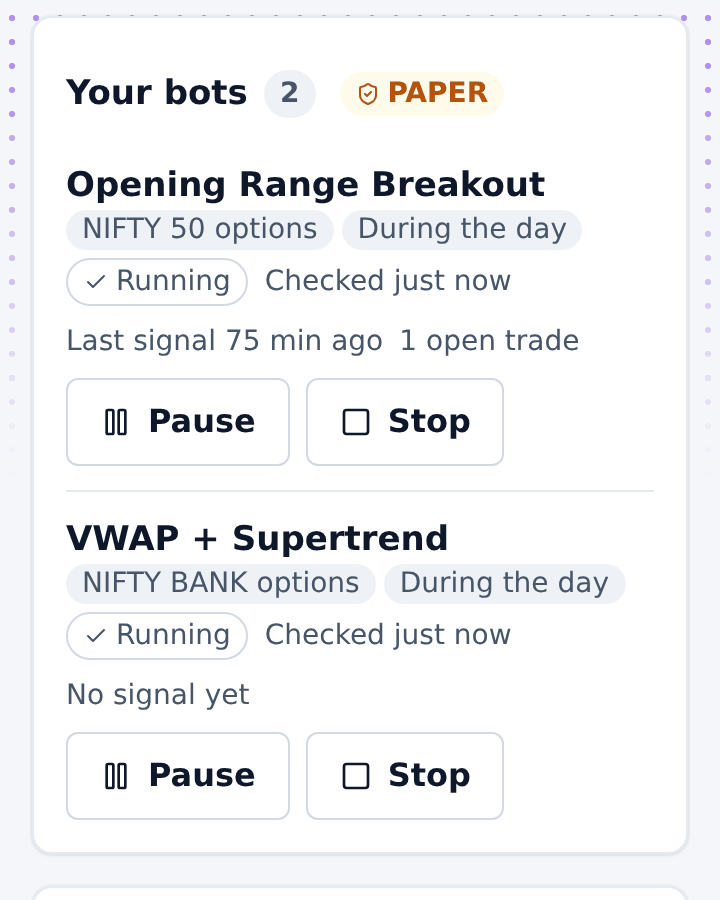
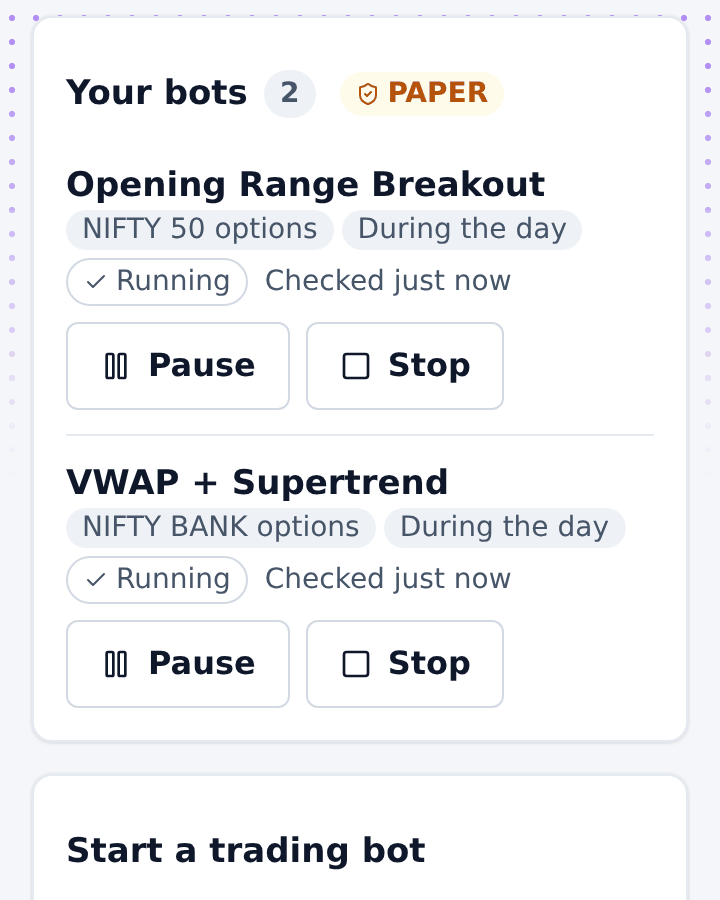
M95: front images - the app's own structure reader, no made-up figures
- Structure words now come from the daily report's reader (app.daily_report.inputs.read_structure,
  its HISTORY_DAYS window) run on the stored bars in prepare_bars.py; the script's own swing rule
  is removed and FRONT_BARS is required.
- Hidden by capture-page CSS: the journal score, decision count and part points; the bots' last
  signal (no open-trade count); the chain's summary (fixture PCR / IV) and every OI figure (bars stay).
- journal.png re-pinned in check_public_repo.

Claude-Session: https://claude.ai/code/session_01DartbPxmHrAyA5TTsS4Pys

Changed region(s): [[0.0611, 0.3422, 0.9472, 0.9644]]

diff --git a/frontend/scripts/front-images/front-images.e2e.ts b/frontend/scripts/front-images/front-images.e2e.ts
@@ -1,7 +1,6 @@
 import { expect, test, type Page } from "@playwright/test";
 import { mkdirSync, readFileSync, writeFileSync } from "node:fs";
 import { join } from "node:path";
-import { madeUpBars } from "../../e2e/chartsMocks";
 import { REPORT } from "../../src/dailyReport/fixture";
 import { DEMO_LIST, DEMO_STATS, DEMO_WEEK } from "../../src/journal/journal.fixture";
 import { api, mockDashboard } from "../../e2e/dashboardMocks";
@@ -12,65 +11,31 @@ import { mockApi, type MockOptions } from "../../e2e/mockApi";
  * production build on a mocked API, as the e2e specs do) at a phone size, 360 x 450 at 2x (720 x 900), light theme.
  * Public images: index data only (NIFTY 50 / BANK NIFTY), as of a date at least three months old, and EVERY price
  * figure and price axis hidden (CSS added to the capture page only; the app is unchanged). No stock names, no amounts.
- * - FRONT_BARS=<json from prepare_bars.py>: the real index daily bars (kept outside the repository). Left out: the
- *   e2e made-up bars (e2e/chartsMocks.ts).
+ * - FRONT_BARS=<json from prepare_bars.py> (required): the real index daily bars, kept outside the repository, and the
+ *   Daily / Weekly structure the app's own reader (the daily report's) gives on them. No structure word comes from here.
  * - Writes raw PNGs and each screen's visible words to FRONT_RAW (default /tmp/front-raw); shrink.py makes the
  *   committed files public/front/<slug>.png.
  */
 const RAW = process.env.FRONT_RAW ?? "/tmp/front-raw";
 mkdirSync(RAW, { recursive: true });
 type Bar = { timestamp: string; open: number; high: number; low: number; close: number; volume: number };
-const STORE = process.env.FRONT_BARS ? JSON.parse(readFileSync(process.env.FRONT_BARS, "utf8")) as { asof: string; symbols: Record<string, Bar[]> } : null;
-/** The as-of day every screen shows: the stored bars' last day, else a fixed day over three months before the run. */
-const ASOF = STORE?.asof ?? "2026-07-31";
+if (!process.env.FRONT_BARS) throw new Error("FRONT_BARS=<the file prepare_bars.py wrote> is required");
+const STORE = JSON.parse(readFileSync(process.env.FRONT_BARS, "utf8")) as {
+  asof: string; symbols: Record<string, Bar[]>; structure: Record<string, { d: string; w: string }> };
+/** The as-of day every screen shows: the stored bars' last day. */
+const ASOF = STORE.asof;
 const AT = `${ASOF}T15:45:00+05:30`;
 const CONNECTED = [{ broker_name: "upstox", account_label: "primary", token_status: "VALID", token_expires_at: null, last_verified_at: null,
   needs_login: false, oauth_supported: true, oauth_callback_url: null, login_url_supported: false, code_param: null }];
 
-function bars(symbol: string): Bar[] {
-  const key = /BANK/.test(symbol) ? "NIFTY BANK" : "NIFTY 50";
-  if (STORE?.symbols[key]) return STORE.symbols[key];
-  return madeUpBars("day").map((b) => ({ ...b, volume: 0 }));
-}
+const key = (symbol: string) => (/BANK/.test(symbol) ? "NIFTY BANK" : "NIFTY 50");
+const bars = (symbol: string): Bar[] => STORE.symbols[key(symbol)];
 const last = (symbol: string) => bars(symbol).at(-1)!;
 const prev = (symbol: string) => bars(symbol).at(-2)!;
 const changePct = (symbol: string) => (last(symbol).close / prev(symbol).close - 1) * 100;
-
-/** Weekly bars (Monday-based) from the daily ones. */
-function weekly(list: Bar[]): Bar[] {
-  const out: Bar[] = [];
-  let key = "";
-  for (const b of list) {
-    const d = new Date(b.timestamp);
-    const monday = new Date(Date.UTC(d.getUTCFullYear(), d.getUTCMonth(), d.getUTCDate() - ((d.getUTCDay() + 6) % 7))).toISOString().slice(0, 10);
-    if (monday !== key) { out.push({ ...b }); key = monday; continue; }
-    const w = out[out.length - 1];
-    w.high = Math.max(w.high, b.high); w.low = Math.min(w.low, b.low); w.close = b.close;
-  }
-  return out;
-}
-
-/** The structure words the screens show, from the bars by one mechanical rule (not anyone's read): the last two swing
- * highs and lows (a bar higher / lower than the `k` bars each side) - higher high and higher low "up", lower high and
- * lower low "down", else "range"; a close beyond the last swing high / low after it counts as that side's next swing. */
-function structure(list: Bar[], k = 3): "up" | "down" | "range" {
-  const highs: number[] = [];
-  const lows: number[] = [];
-  for (let i = k; i < list.length - k; i++) {
-    const near = [...list.slice(i - k, i), ...list.slice(i + 1, i + k + 1)];
-    if (near.every((b) => b.high < list[i].high)) highs.push(list[i].high);
-    if (near.every((b) => b.low > list[i].low)) lows.push(list[i].low);
-  }
-  const close = list[list.length - 1].close;
-  if (highs.length && close > highs[highs.length - 1]) highs.push(close);
-  if (lows.length && close < lows[lows.length - 1]) lows.push(close);
-  if (highs.length < 2 || lows.length < 2) return "range";
-  const hh = highs[highs.length - 1] > highs[highs.length - 2];
-  const hl = lows[lows.length - 1] > lows[lows.length - 2];
-  return hh && hl ? "up" : !hh && !hl ? "down" : "range";
-}
-const dailyWord = (symbol: string) => structure(bars(symbol));
-const weeklyWord = (symbol: string) => structure(weekly(bars(symbol)), 2);
+/** The app reader's direction ("up", "up (weak)", "down", "down (weak)", "range", "none"), from prepare_bars.py. */
+const dailyWord = (symbol: string) => STORE.structure[key(symbol)].d;
+const weeklyWord = (symbol: string) => STORE.structure[key(symbol)].w;
 
 /** The capture page's own CSS: one font, no caret, no scroll bars, no animation. */
 const BASE_CSS = [
@@ -138,10 +103,10 @@ async function capture(page: Page, slug: string, hideCss: string, place?: () => 
   const words = await visibleText(page);
   writeFileSync(join(RAW, `${slug}.txt`), words.join("\n") + "\n");
   // M95-Q1 checks on the words on screen (the chart canvases are checked by eye): no amount, no price-like figure
-  // (a thousands separator or two decimals; the chain's OI counts are the one allowed use), no other name.
+  // (a thousands separator or two decimals that is not a %), no other name.
   const text = words.join(" ");
   expect(text, "no rupee amount").not.toMatch(/₹|\bRs\.?\s?\d/);
-  if (slug !== "option-chain") expect(text, "no price-like figure").not.toMatch(/\d,\d{3}|\d\.\d{2}\b(?!%)/);
+  expect(text, "no price-like figure").not.toMatch(/\d,\d{3}|\d\.\d{2}\b(?!%)/);
   expect(text, "only the two indices").not.toMatch(/STOCK\d|DEMO[A-D]\b|TEST[A-D]{3}|RELIANCE|SENSEX|VIX|FINNIFTY/i);
   await page.screenshot({ path: join(RAW, `${slug}.png`), animations: "disabled" });
   const overflow = await page.evaluate(() => document.documentElement.scrollWidth - window.innerWidth);
@@ -186,7 +151,8 @@ test("copilot", async ({ page }) => {
   await mockIndexNumbers(page);
   const fixture = CHAT.answers["Read the NIFTY chart"];
   const stamp = `${ASOF}T10:00:00+00:00`;
-  const word = (w: string) => (w === "range" ? "sideways" : w);
+  // The Copilot's own words for the reader's direction (its trend chip knows up / down / sideways).
+  const word = (w: string) => (w.startsWith("up") ? "up" : w.startsWith("down") ? "down" : "sideways");
   const daily = word(dailyWord("NIFTY 50"));
   const wk = word(weeklyWord("NIFTY 50"));
   const read = `On the daily chart the structure reads ${daily}; the weekly reads ${wk}.`;
@@ -255,20 +221,18 @@ test("option-chain", async ({ page }) => {
   await page.goto("/option-chain");
   await expect(page.locator("tr[data-atm]")).toBeVisible({ timeout: 15_000 });
   await page.waitForLoadState("networkidle");
-  await page.locator("[data-summary-more]").click();
-  // Hidden: every price card (spot, ATM strike, max pain, futures, OI walls), the strike and premium columns. Shown:
-  // PCR, ATM IV and OI by side (its bars and the highest-OI marks).
+  // Hidden: the whole summary (prices, and the fixture's made-up PCR / IV), the strike and premium columns and every OI
+  // figure (the fixture's numbers). Shown: the chain's OI bars by side, the highest-OI marks and the ATM row.
   await capture(page, "option-chain", [
-    "[data-summary='spot'], [data-summary='atm'], [data-summary='max-pain'], [data-summary='futures'], [data-summary='oi-walls'], [data-summary-more] { display: none !important; }",
-    // Days to expiry too, so PCR and IV share one row and the chain has the room.
-    "[data-summary='dte'] { display: none !important; }",
+    "[data-block='chain-summary'] { display: none !important; }",
+    "[data-chain-scroll] td[data-col$='-oi'] > span.relative { visibility: hidden !important; }",
     "[data-chain-scroll] [data-col$='-ltp'], [data-chain-scroll] tr > th[scope='row'], [data-chain-scroll] th[data-front-hide] { display: none !important; }",
   ].join("\n"), async () => {
     // The header cells of the hidden columns (they carry no data attribute of their own): marked here, hidden above.
     await page.locator("[data-chain-scroll] thead th").evaluateAll((els) => els.forEach((e) => {
       if (/LTP|Strike/.test(e.textContent ?? "")) e.setAttribute("data-front-hide", "");
     }));
-    await toTop(page, "[data-block='chain-summary']");
+    await toTop(page, "[data-chain-notes]");
     // The chain's own scroll box ends inside the crop (its rows scroll there, as on a phone), not cut by the crop's edge.
     await page.locator("[data-chain-scroll]").evaluate((el) => {
       const box = el as HTMLElement;
@@ -313,9 +277,9 @@ test("trading-bot", async ({ page }) => {
   const base = { exchange: "NSE", broker_name: null, last_signal_at: null, last_error: null, consecutive_failures: 0, created_by: 7,
     created_at: stamp("09:00"), updated_at: stamp("09:00"), strike_offset: 0, premium_stop_pct: null, contract_rules: "", mode: "PAPER",
     instrument_kind: "OPTION", option_position: "BUY", expiry_rule: "NEAREST", strike_rule: "ATM", max_lots: 1, holding: "INTRADAY", pause_reason: null };
-  // Two paper bots on the two indices: one running with a position open, one waiting for its next signal.
+  // Two running paper bots on the two indices: states and words only (no position count; the signal time is hidden).
   const bots = [
-    { ...base, id: 52, strategy_id: "orb_15m_5m", symbol: "NIFTY 50", timeframe: "1min", status: "ACTIVE", last_evaluated_at: stamp("11:19"), last_signal_at: stamp("10:05"), open_positions: 1 },
+    { ...base, id: 52, strategy_id: "orb_15m_5m", symbol: "NIFTY 50", timeframe: "1min", status: "ACTIVE", last_evaluated_at: stamp("11:19"), open_positions: 0 },
     { ...base, id: 51, strategy_id: "vwap_supertrend_5m", symbol: "NIFTY BANK", timeframe: "1min", status: "ACTIVE", last_evaluated_at: stamp("11:19"), open_positions: 0 },
   ];
   await page.route(api("/strategies$"), (route) => route.fulfill({ json: S.strategies }));
@@ -327,7 +291,7 @@ test("trading-bot", async ({ page }) => {
   await page.goto("/deployments");
   await page.waitForLoadState("networkidle");
   await expect(page.locator("[aria-busy='true']")).toHaveCount(0, { timeout: 15_000 });
-  await capture(page, "trading-bot", "", () => toTop(page, "[data-block='bots']"));
+  await capture(page, "trading-bot", "[data-bot-signal] { display: none !important; }", () => toTop(page, "[data-block='bots']"));
 });
 
 test("journal", async ({ page }) => {
@@ -353,8 +317,10 @@ test("journal", async ({ page }) => {
   await expect(page.locator("[data-block='journal-list']")).toBeVisible({ timeout: 15_000 });
   await page.getByRole("tab", { name: "Week" }).click();
   await page.waitForLoadState("networkidle");
-  // On the Week tab: the discipline score card only (the cards after it would be cut by the crop).
-  await capture(page, "journal", "[data-front-score] ~ * { visibility: hidden !important; }", async () => {
+  // On the Week tab: the discipline score card only (the cards after it would be cut by the crop), with its made-up
+  // figures hidden - the score, the decision count and each part's points (the part names and the card stay).
+  await capture(page, "journal", ["[data-front-score] ~ * { visibility: hidden !important; }",
+    "div:has(> [data-score]) { display: none !important; } [data-component] .font-tabular { visibility: hidden !important; }"].join("\n"), async () => {
     await page.getByText("Discipline score").first().evaluate((el) => {
       const card = el.closest("section, [data-block], div.rounded-panel") ?? el;
       card.setAttribute("data-front-score", "");
@@ -366,7 +332,8 @@ test("journal", async ({ page }) => {
 test("daily-report", async ({ page }) => {
   await prepare(page, { ui_v2: true, ai_copilot: true, shared_daily_report: true });
   await mockIndexNumbers(page);
-  const words: Record<string, string> = { up: "up", down: "down", range: "in a range" };
+  const words: Record<string, string> = { up: "up", "up (weak)": "up, weakening", down: "down", "down (weak)": "down, weakening",
+    range: "in a range", none: "not formed yet" };
   const indexRow = (symbol: string) => ({ ...REPORT.index[0], symbol, name: symbol, close: last(symbol).close, change_pct: changePct(symbol), read: null,
     structure_d: { direction: dailyWord(symbol), words: "", swing_high: null, swing_low: null },
     structure_w: { direction: weeklyWord(symbol), words: "", swing_high: null, swing_low: null } });

diff --git a/frontend/scripts/front-images/prepare_bars.py b/frontend/scripts/front-images/prepare_bars.py
@@ -3,6 +3,9 @@
 Reads daily bar CSVs (timestamp, bar_end, open, high, low, close; .csv or .csv.gz), keeps the bars up to the as-of
 date (at least three months old, rule M95-Q1) and writes one JSON file OUTSIDE the repository for the capture script
 (FRONT_BARS=<that file>). The raw bars are never committed; the images hide every price figure and price axis.
+The Daily and Weekly structure words are the app's OWN reader on those bars - the daily report's
+`app.daily_report.inputs.read_structure` over its own history window (`HISTORY_DAYS`), with backend/ on sys.path -
+never a rule of this script.
 
   python3 scripts/front-images/prepare_bars.py --asof 2026-07-31 --out /tmp/front-bars.json \
       --bars "NIFTY 50=<daily CSV>" --bars "NIFTY BANK=<daily CSV>"
@@ -13,14 +16,37 @@ import datetime as dt
 import gzip
 import json
 import pathlib
+import sys
+
+BACKEND = pathlib.Path(__file__).resolve().parents[3] / "backend"
 
 
-def read(path: pathlib.Path, asof: str, keep: int) -> list:
+def rows_upto(path: pathlib.Path, asof: str) -> list:
     opener = gzip.open if path.suffix == ".gz" else open
     with opener(path, "rt", newline="") as fh:
-        rows = [r for r in csv.DictReader(fh) if r["timestamp"][:10] <= asof]
+        return [r for r in csv.DictReader(fh) if r["timestamp"][:10] <= asof]
+
+
+def chart_bars(rows: list, keep: int) -> list:
     return [{"timestamp": f"{r['timestamp'][:10]}T03:45:00Z", "open": float(r["open"]), "high": float(r["high"]),
              "low": float(r["low"]), "close": float(r["close"]), "volume": 0} for r in rows[-keep:]]
+
+
+def app_structure(rows: list, asof: str) -> dict:
+    """The daily report's own structure reader (Daily + Weekly) on the same history window it reads."""
+    sys.path.insert(0, str(BACKEND))
+    import pandas as pd
+    from app.daily_report import inputs
+
+    first = (dt.date.fromisoformat(asof) - dt.timedelta(days=inputs.HISTORY_DAYS)).isoformat()
+    window = [r for r in rows if r["timestamp"][:10] >= first]
+    ends = pd.to_datetime([f"{r['timestamp'][:10]} 15:30:00" for r in window]).tz_localize("Asia/Kolkata").tz_convert("UTC")
+    frame = pd.DataFrame({"timestamp": ends - pd.to_timedelta("6h15min"), "bar_end": ends,
+                          "open": [float(r["open"]) for r in window], "high": [float(r["high"]) for r in window],
+                          "low": [float(r["low"]) for r in window], "close": [float(r["close"]) for r in window],
+                          "volume": [0.0] * len(window)})
+    read = inputs.read_structure(frame)
+    return {"d": read["d"]["direction"], "w": read["w"]["direction"]}
 
 
 def main() -> None:
@@ -32,15 +58,16 @@ def main() -> None:
     a = ap.parse_args()
     if dt.date.fromisoformat(a.asof) > dt.datetime.now(dt.timezone.utc).date() - dt.timedelta(days=92):
         raise SystemExit("the as-of date must be at least three months old (M95-Q1)")
-    out = {"asof": a.asof, "symbols": {}}
+    out: dict = {"asof": a.asof, "symbols": {}, "structure": {}}
     for item in a.bars:
         symbol, path = item.split("=", 1)
-        bars = read(pathlib.Path(path), a.asof, a.keep)
-        if not bars or bars[-1]["timestamp"][:10] != a.asof:
+        rows = rows_upto(pathlib.Path(path), a.asof)
+        if not rows or rows[-1]["timestamp"][:10] != a.asof:
             raise SystemExit(f"{symbol}: no bar on {a.asof}")
-        out["symbols"][symbol] = bars
+        out["symbols"][symbol] = chart_bars(rows, a.keep)
+        out["structure"][symbol] = app_structure(rows, a.asof)
     pathlib.Path(a.out).write_text(json.dumps(out))
-    print(f"wrote {a.out}: " + ", ".join(f"{s} {len(b)} bars" for s, b in out["symbols"].items()))
+    print(f"wrote {a.out}: " + ", ".join(f"{s} {len(b)} bars, structure {out['structure'][s]}" for s, b in out["symbols"].items()))
 
 
 if __name__ == "__main__":

diff --git a/scripts/check_public_repo.py b/scripts/check_public_repo.py
@@ -131,9 +131,9 @@ ALLOWED_TEST_DATA: Dict[str, str] = {
[3 lines of base64/hex data omitted]
-    # M95: the front door's Journal image - the Week tab's discipline score on the e2e journal fixture (made-up scores
-    # and counts, no amount, no price); re-pin after regenerating it (frontend/scripts/front-images/)
[1 lines of base64/hex data omitted]
+    # M95: the front door's Journal image - the Week tab's discipline score card on the e2e journal fixture, every figure
+    # hidden (part names and bars only, no amount, no price); re-pin after regenerating it (frontend/scripts/front-images/)
[1 lines of base64/hex data omitted]
     # ATP-generated goldens on synthetic, seeded inputs (each regeneration site names this list)
[2 lines of base64/hex data omitted]
